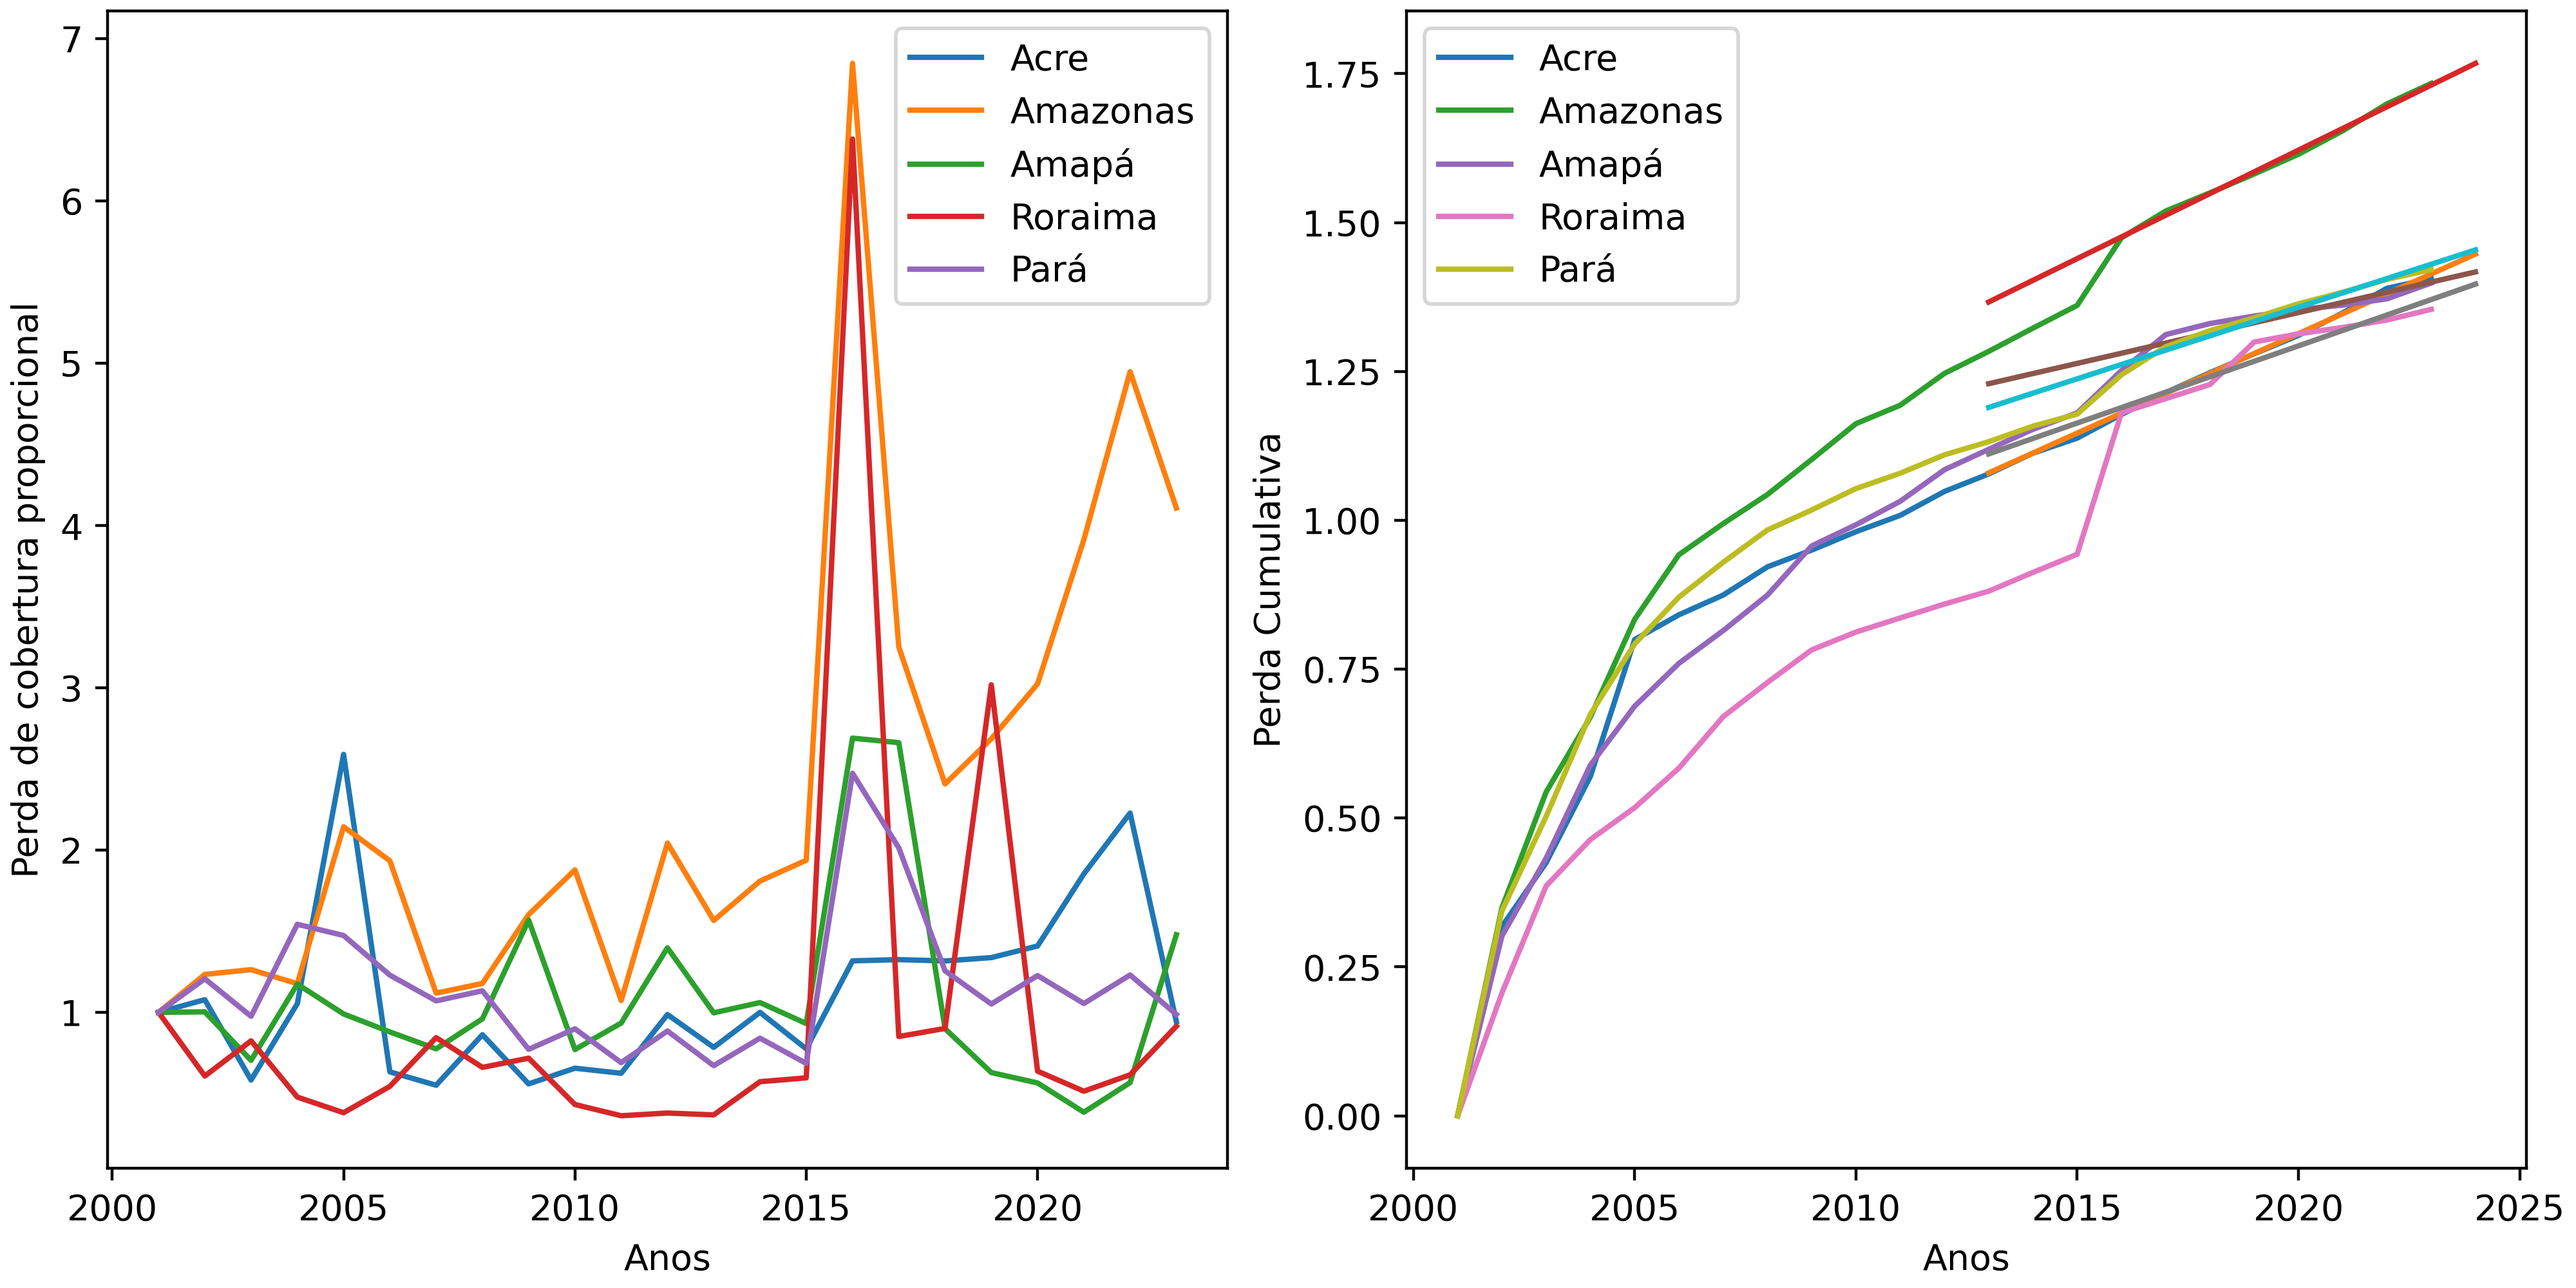
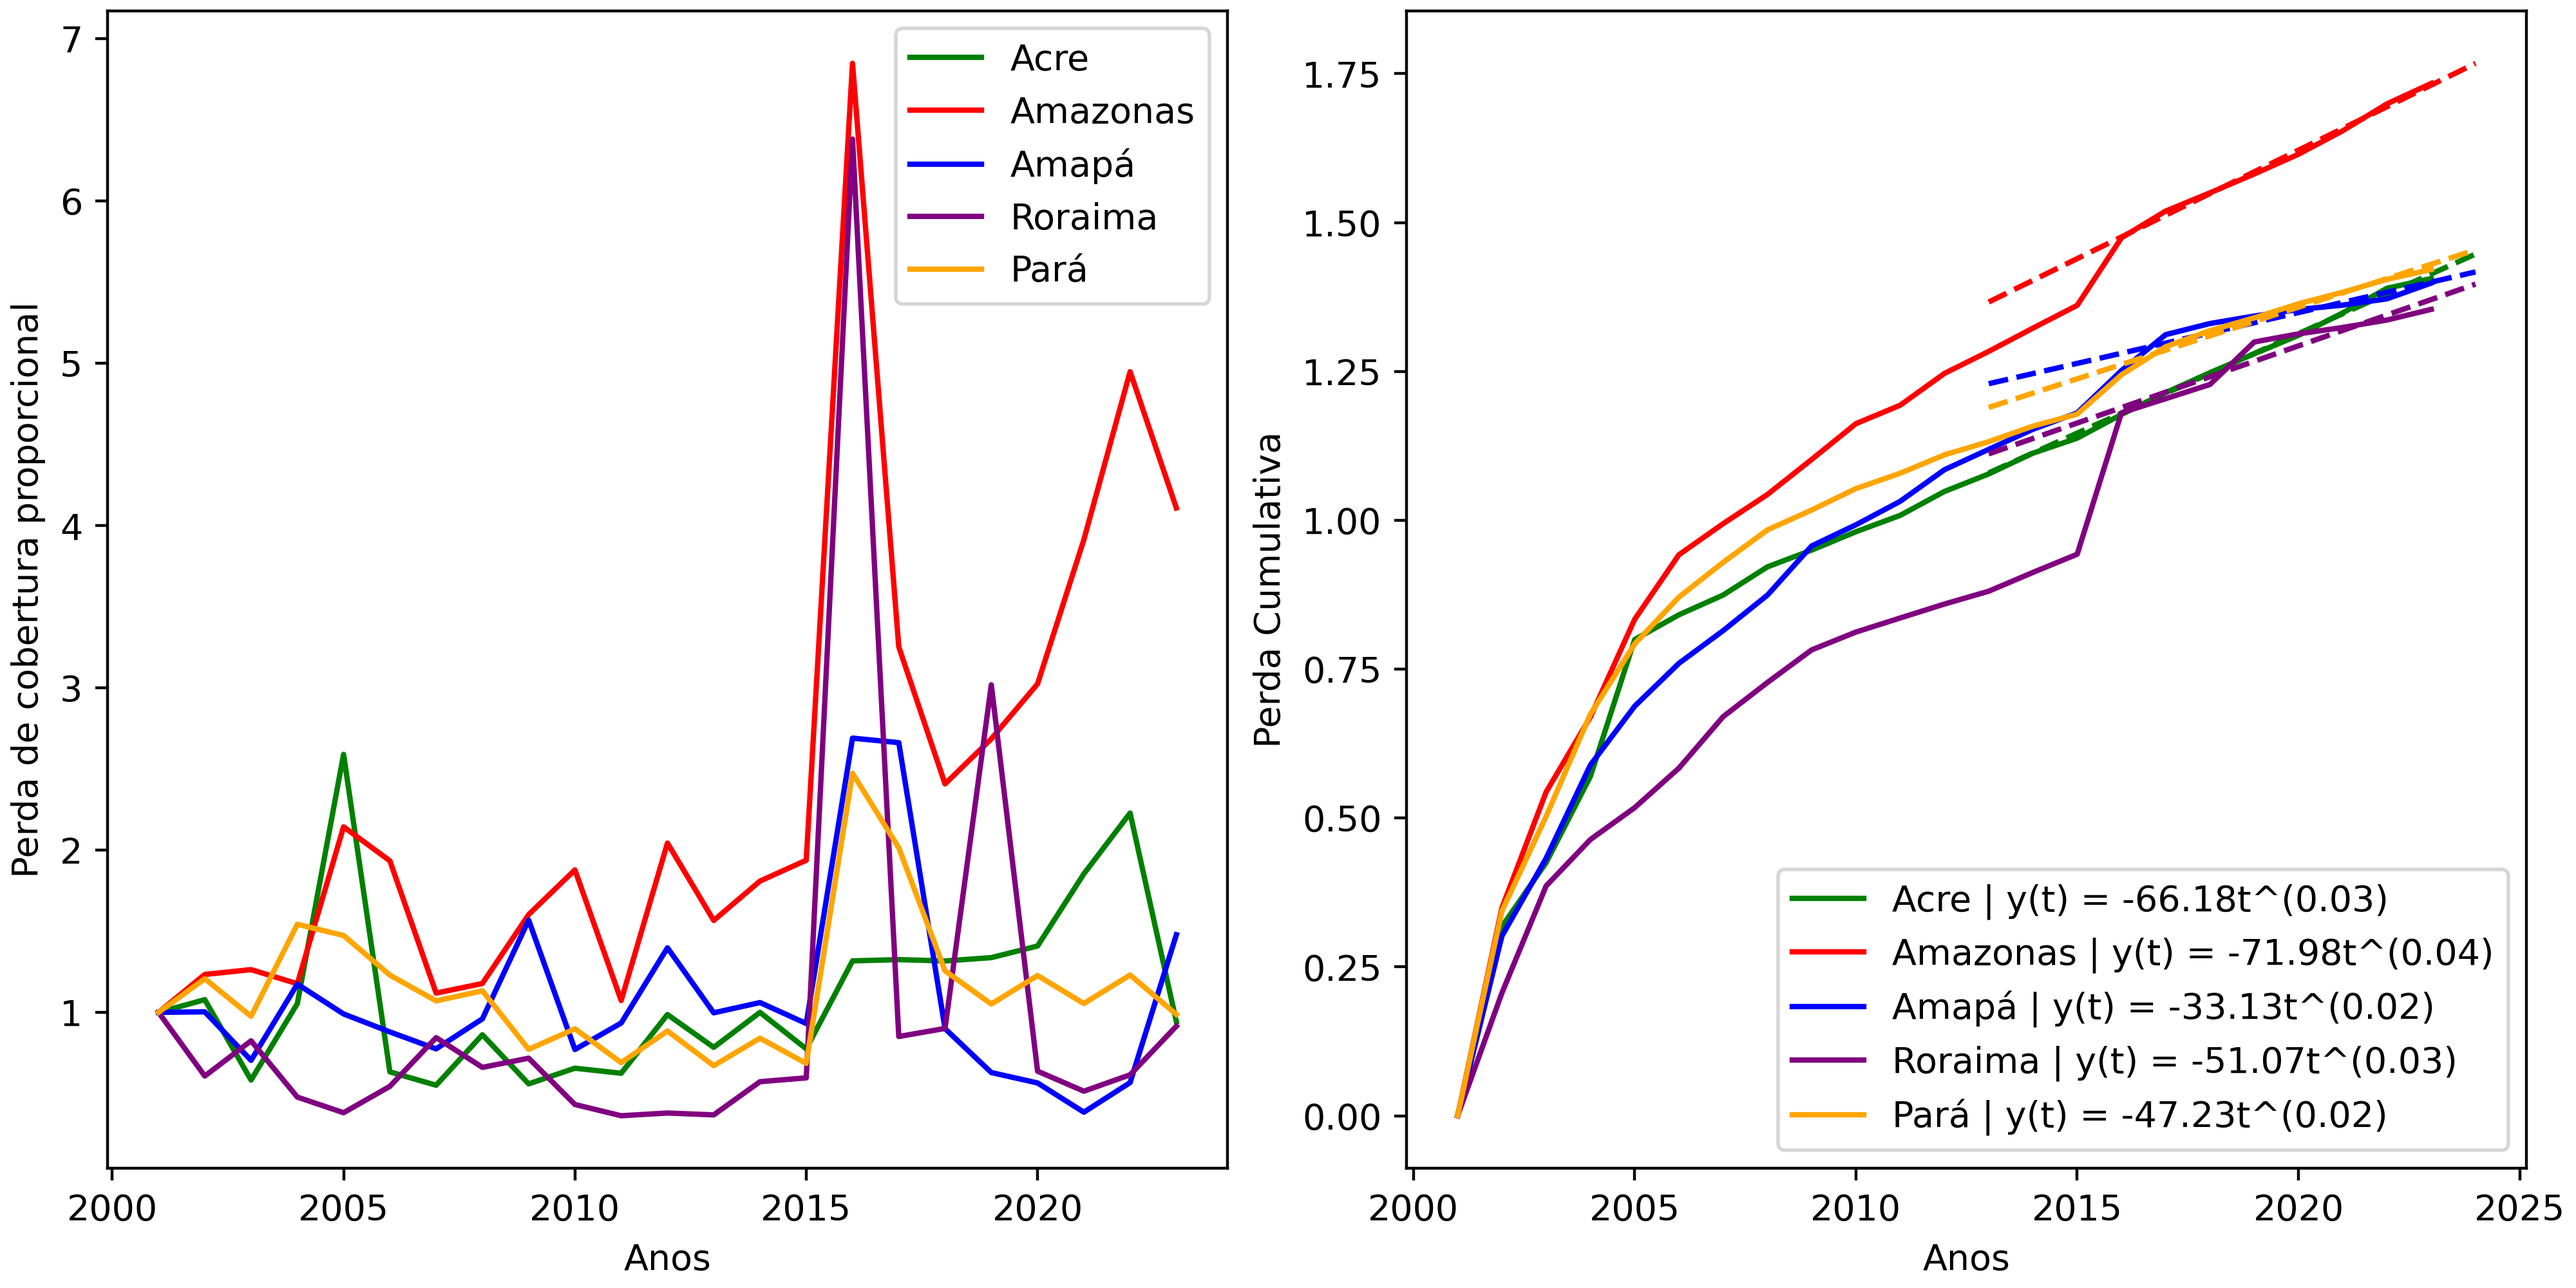
Atualização

diff --git a/atividades/atv-02/new-gfw.py b/atividades/atv-02/new-gfw.py
@@ -14,16 +14,21 @@ df_filter = df[df['threshold'] == limiar]
 
 cols = list(col for col in df_filter.columns if col.startswith('tc_loss_ha_') or col == 'subnational1' or col == 'area_ha')
 
-years = list(int(y.split('_')[-1]) for y in cols[2:])
+years = np.asarray(list(int(y.split('_')[-1]) for y in cols[2:]))
 
 
 df_filter = df_filter[cols]
 
-def func(x, a, b):
+
+# Funções de ajuste
+def func1(x, a, b):
     return a + b*x
 
-fig, ax = plt.subplots(1, 2, figsize=(10, 5), layout='constrained')
+def func2(x, a, b):
+    return a*x**b
 
+
+fig, ax = plt.subplots(1, 2, figsize=(10, 5), layout='constrained')
 
 index_cut_year = 8
 
@@ -38,19 +43,28 @@ for i in range(len(states)):
     values_cumul = np.cumsum(values)
     values_cumul = values_cumul/values_cumul[0]
 
-    log_years = np.log10(years)
-    log_values = np.log10(list(values_cumul))
-
-    pr, pcov = sp.curve_fit(func, years[-index_cut_year:], log_values[-index_cut_year:])
-
-    x = np.linspace(2013, 2024, 1000)
-    y = func(x, pr[0], pr[1])
-
     plt.subplot(121)
     plt.plot(years, values/area, colors[i], label=states[i])
     plt.subplot(122)
-    plt.plot(years, log_values, colors[i], label=states[i]+f' | y(t) = {pr[0]:.2f}t^({pr[1]:.2f})')
-    plt.plot(x, y, colors[i], linestyle='--')
+    plt.plot(years, values_cumul, colors[i], label=states[i]) #+f' | y(t) = {pr[0]:.2f}t^({pr[1]:.2f})')
+
+    if states[i] == 'Amazonas':
+        pr1, pcov1 = sp.curve_fit(func1, years[:index_cut_year-1], values_cumul[:index_cut_year-1])
+
+        x1 = np.linspace(2002, 2018, 1000)
+        y1 = func1(x1, pr1[0], pr1[1])
+
+        plt.plot(x1, y1, 'k', linestyle='-.')
+
+        log_years = np.log10(abs(years[-index_cut_year+1:]-years[index_cut_year]))
+        log_values = np.log10(list(values_cumul)[-index_cut_year+1:])
+
+        pr2, pcov2 = sp.curve_fit(func1, log_years, log_values)
+
+        x2 = np.linspace(2010, 2024, 1000)
+        y2 = func2(x2, pr2[0], pr2[1])
+
+        plt.plot(x2, y2, 'k', linestyle='--')
 
 
 plt.subplot(121)
@@ -63,5 +77,5 @@ plt.legend()
 plt.xlabel('Anos')
 plt.ylabel('Perda Cumulativa')
 
-plt.savefig('comp.png', dpi=400)
+plt.savefig('new-comp.png', dpi=400)
 

diff --git a/atividades/atv-03/covid.py b/atividades/atv-03/covid.py
@@ -1,0 +1,33 @@
+import numpy as np
+import matplotlib.pyplot as plt
+import pandas as pd
+
+
+
+df = pd.read_csv('https://raw.githubusercontent.com/CSSEGISandData/COVID-19/master/csse_covid_19_data/csse_covid_19_time_series/time_series_covid19_confirmed_US.csv', encoding='utf-8')
+
+df_filtered = df.drop(['UID', 'iso2', 'iso3', 'code3', 'FIPS', 'Country_Region', 'Lat', 'Long_', 'Combined_Key'], axis=1)
+
+# Extrai datas e cria contagem de dias
+values_columns = df_filtered.drop(['Admin2', 'Province_State'], axis=1).columns
+
+date_begin = values_columns[0]
+date_end = values_columns[-1]
+
+t = np.arange(0, len(values_columns), 1)
+
+fig, ax = plt.subplots(1, 1, figsize=(10, 10), layout='constrained')
+
+cities = ['New York', 'Los Angeles', 'Washington']
+
+#print(df_filtered[df_filtered['Admin2'] == 'Miami'])
+
+
+for i in range(len(cities)):
+    plt.plot(t, df_filtered[df_filtered['Admin2'] == cities[i]].values.flatten()[2:], label=cities[i])
+
+plt.xlabel(date_begin+f'-'+date_end)
+plt.ylabel('Cases')
+plt.legend()
+plt.savefig('plot_covid.png', dpi=400)
+
